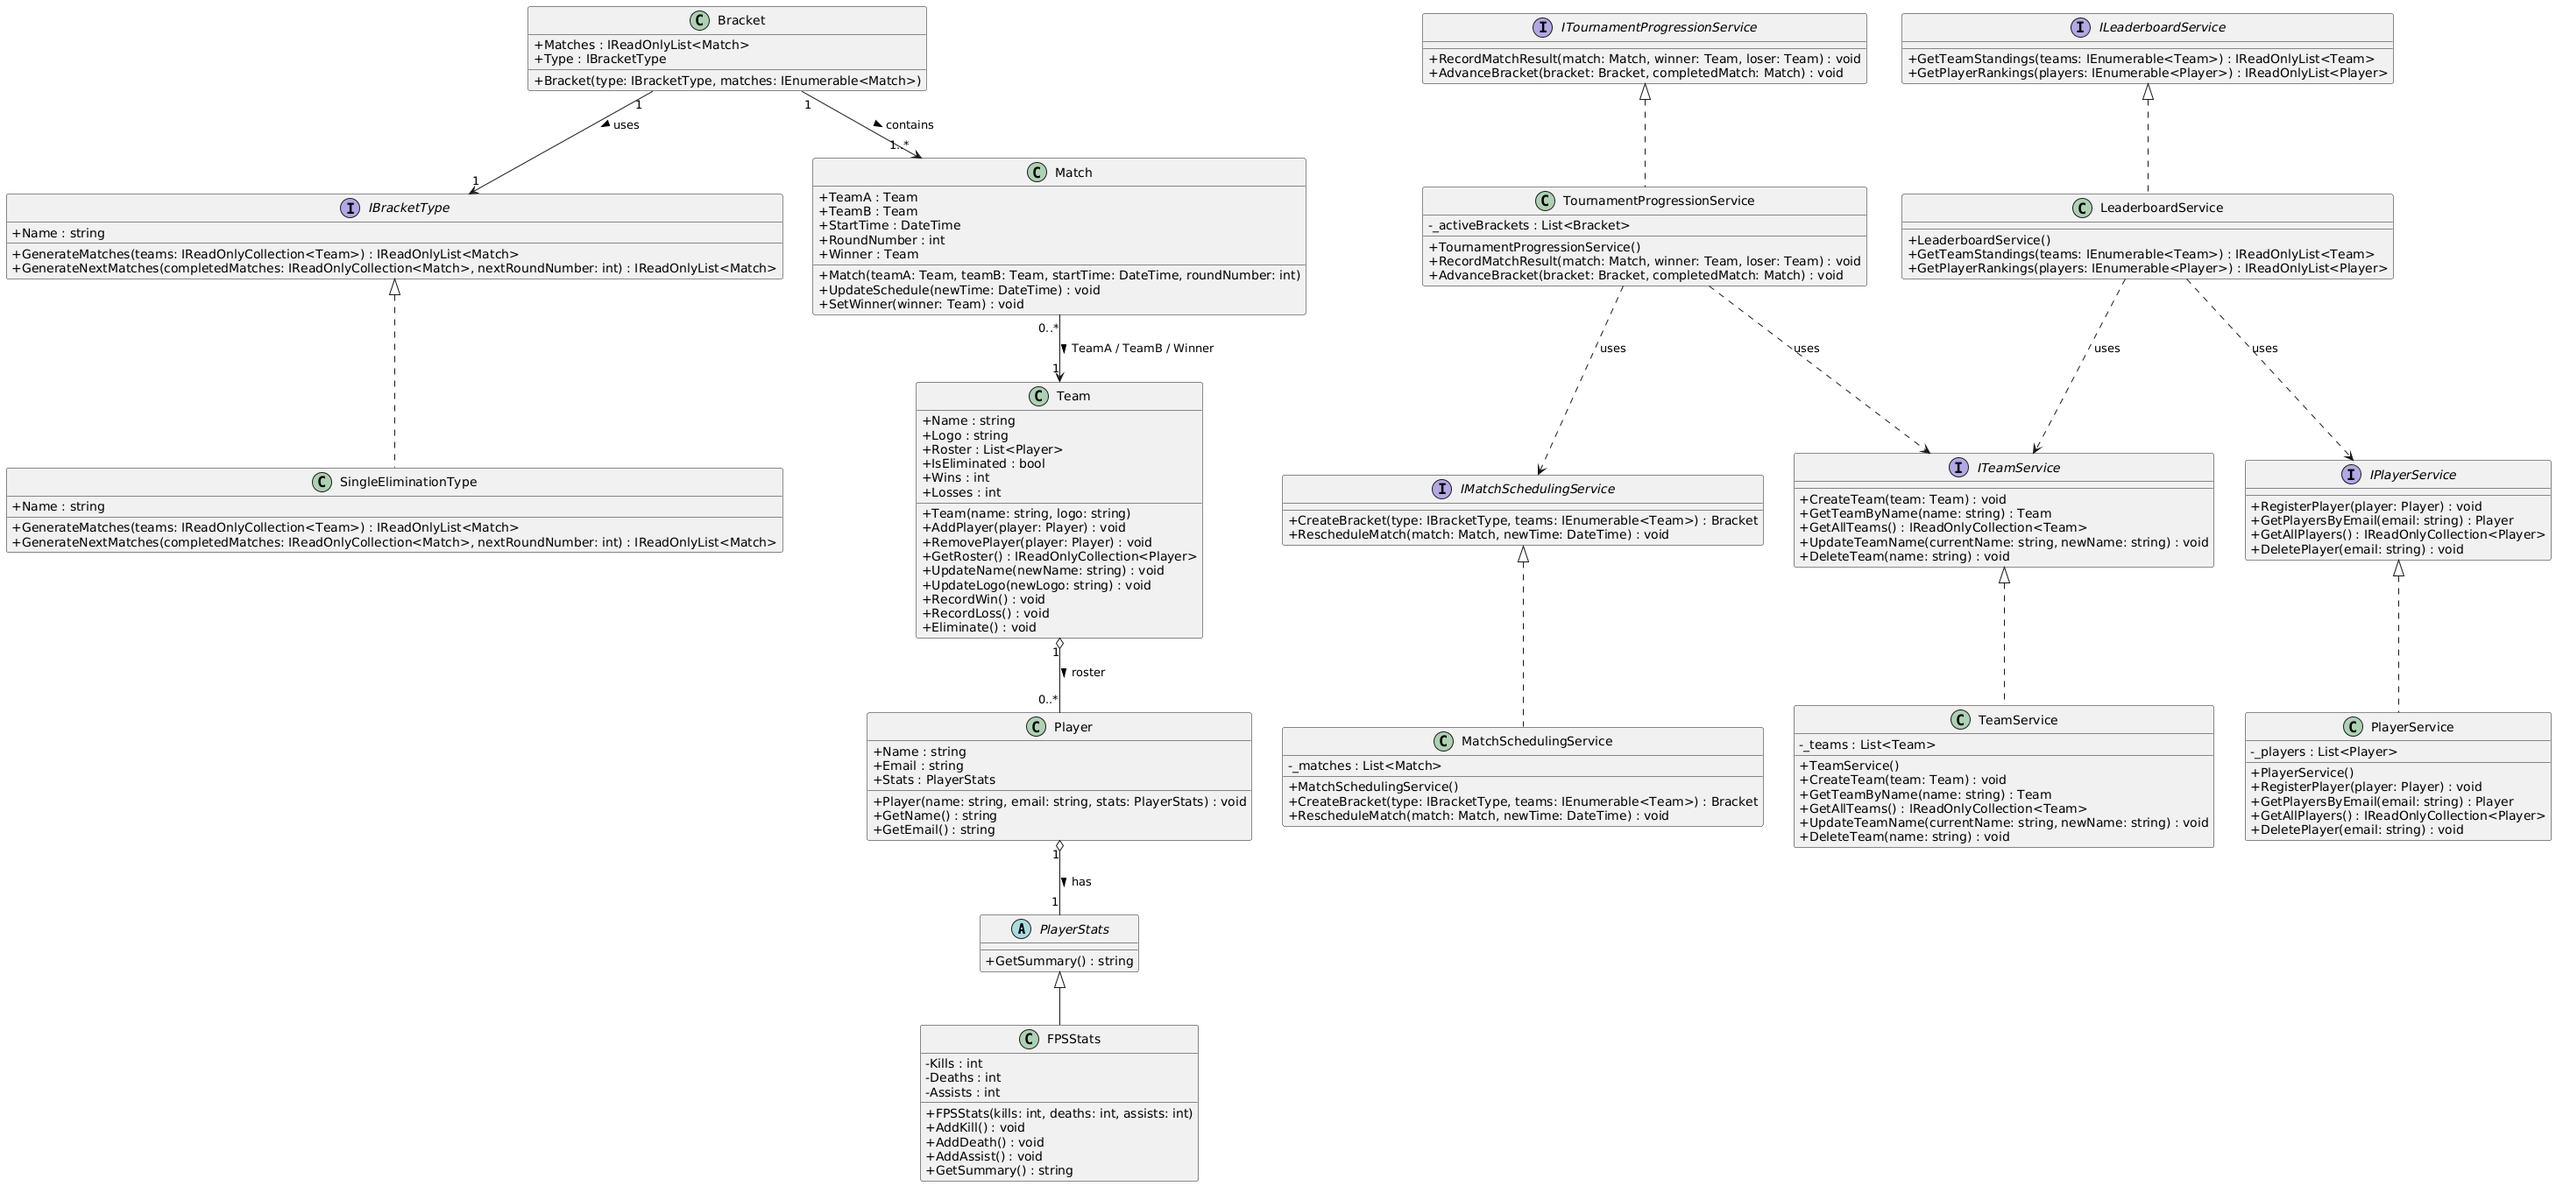
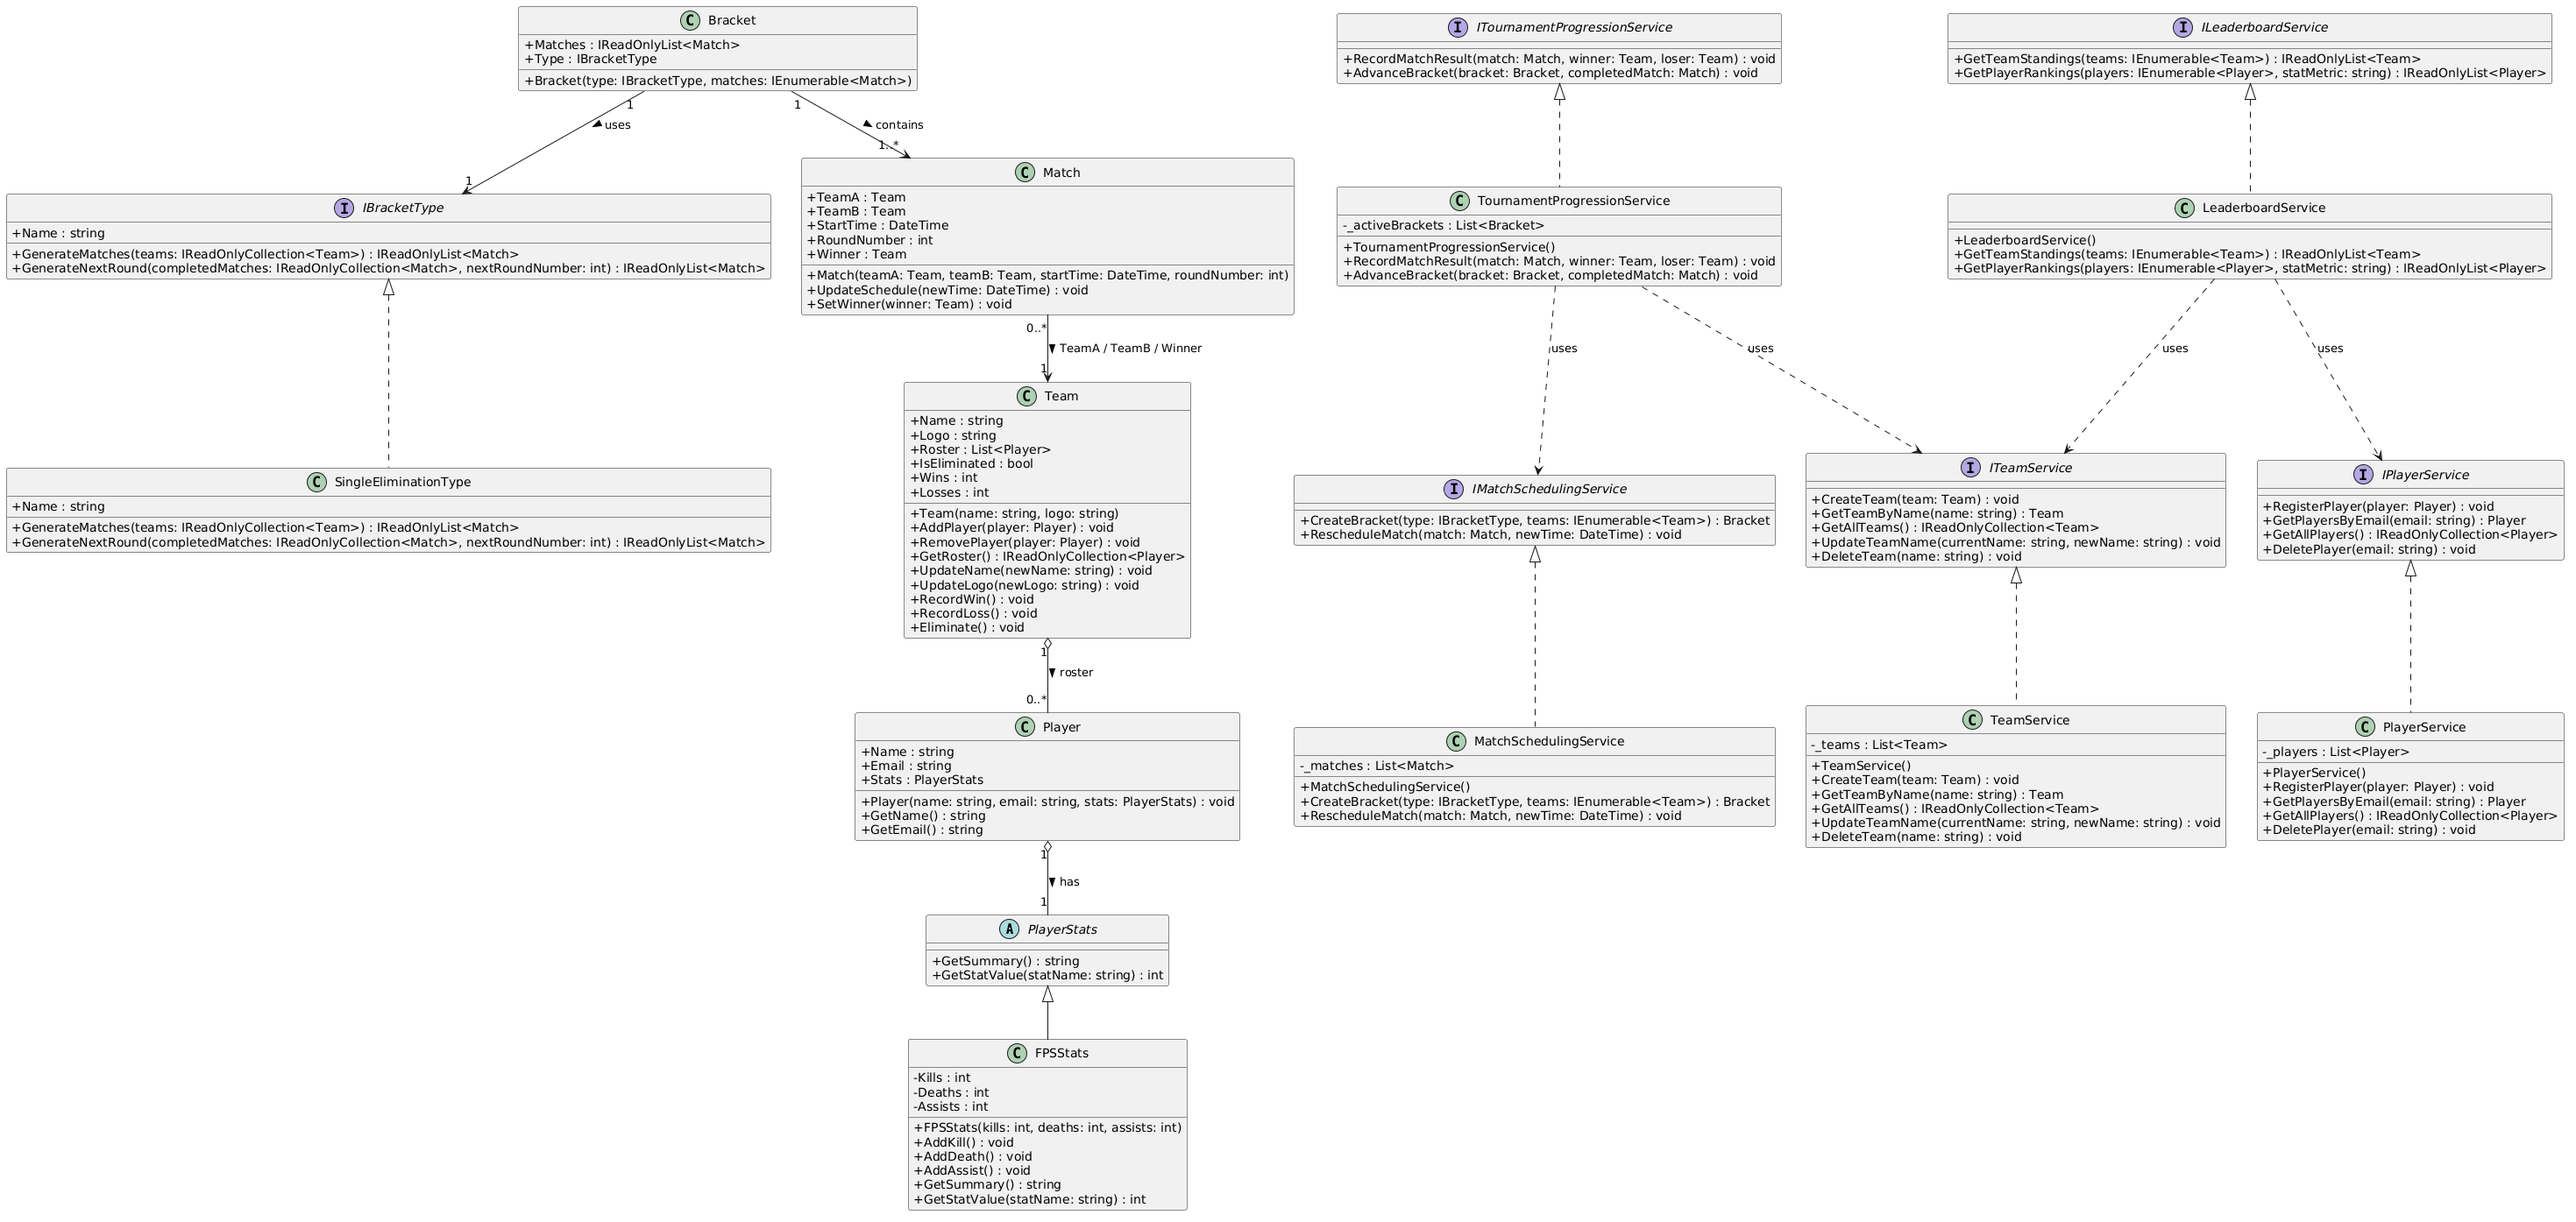
Implement and demonstrate Memo 2 use cases

diff --git a/Game-Bracket/Program.cs b/Game-Bracket/Program.cs
@@ -14,7 +14,12 @@ class Program
         ITeamService teamService = new TeamService();
         IPlayerService playerService = new PlayerService();
 
-        Console.WriteLine("TOURNAMENT MANAGEMENT SYSTEM\n");
+        // --- MEMO 2 SERVICES ---
+        IMatchSchedulingService matchSchedulingService = new MatchSchedulingService();
+        ITournamentProgressionService progressionService = new TournamentProgressionService();
+        ILeaderboardService leaderboardService = new LeaderboardService();
+
+        Console.WriteLine("TOURNAMENT MANAGEMENT SYSTEM - MEMO 1 & 2 DEMO\n");
 
         Console.WriteLine("[CREATE]");
         Team team1 = new Team("Red Birds", "red_birds.png");
@@ -29,8 +34,13 @@ class Program
         PlayerStats stats1 = new FPSStats(15, 5, 10);
         Player player1 = new Player("Alice", "alice@redbirds.com", stats1);
 
+        PlayerStats stats2 = new FPSStats(22, 3, 8);
+        Player player2 = new Player("Bob", "bob@bluebirds.com", stats2);
+
         playerService.CreatePlayer(player1);
+        playerService.CreatePlayer(player2);
         team1.AddPlayer(player1);
+        team2.AddPlayer(player2);
 
         Player retrievedPlayer = playerService.GetPlayerByEmail("alice@redbirds.com");
         Console.WriteLine($"Created and registered player {retrievedPlayer.GetName()} ({retrievedPlayer.GetEmail()})");
@@ -59,28 +69,56 @@ class Program
         Team updatedTeam = teamService.GetTeamByName("Angry Birds");
         Console.WriteLine($"After Update: Team name is {updatedTeam.Name}\n");
 
-        // Demonstrate bracket generation and match workflow
-        Console.WriteLine("[BRACKET & MATCH GENERATION]");
+        // --- MEMO 2: MATCH SCHEDULING SERVICE DEMO ---
+        Console.WriteLine("[MEMO 2 - MATCH SCHEDULING SERVICE]");
         Team team3 = new Team("Green Pigs", "green_pigs.png");
         Team team4 = new Team("King Pig", "king_pig.png");
         teamService.CreateTeam(team3);
         teamService.CreateTeam(team4);
 
         IBracketType bracketType = new SingleEliminationType("Single Elimination");
-        var matches = bracketType.GenerateMatches(teamService.GetAllTeams());
-        Bracket tournamentBracket = new Bracket(bracketType, matches);
 
+        // Using MatchSchedulingService instead of direct instantiation
+        Bracket tournamentBracket = matchSchedulingService.CreateBracket(bracketType, teamService.GetAllTeams());
         Console.WriteLine(
-            $"Generated {tournamentBracket.Matches.Count} match(es) for bracket type: {tournamentBracket.Type.Name}");
-        foreach (var match in tournamentBracket.Matches)
-        {
-            Console.WriteLine(
-                $"Match: {match.TeamA.Name} vs {match.TeamB.Name} (Round {match.RoundNumber}) at {match.StartTime}");
+            $"MatchSchedulingService created a bracket with {tournamentBracket.Matches.Count} match(es).");
 
-            // Simulate setting a winner
-            match.SetWinner(match.TeamA);
-            Console.WriteLine($"Winner decided: {match.Winner.Name}\n");
+        // Demonstrate rescheduling a match via MatchSchedulingService
+        var sampleMatch = tournamentBracket.Matches.First();
+        var rescheduledTime = DateTime.Now.AddDays(1);
+        matchSchedulingService.RescheduleMatch(sampleMatch, rescheduledTime);
+        Console.WriteLine($"Rescheduled match start time to: {sampleMatch.StartTime}\n");
+
+        // --- MEMO 2: TOURNAMENT PROGRESSION SERVICE DEMO ---
+        Console.WriteLine("[MEMO 2 - TOURNAMENT PROGRESSION SERVICE]");
+        Console.WriteLine($"Simulating match result between {sampleMatch.TeamA.Name} and {sampleMatch.TeamB.Name}...");
+
+        // Record result using TournamentProgressionService
+        progressionService.RecordMatchResult(sampleMatch, sampleMatch.TeamA, sampleMatch.TeamB);
+        Console.WriteLine($"Winner recorded: {sampleMatch.Winner.Name}");
+
+        // Check loser elimination status
+        Team loser = ReferenceEquals(sampleMatch.TeamA, sampleMatch.Winner) ? sampleMatch.TeamB : sampleMatch.TeamA;
+        Console.WriteLine($"Loser ({loser.Name}) elimination status: {loser.IsEliminated}\n");
+
+        // --- MEMO 2: LEADERBOARD SERVICE DEMO ---
+        Console.WriteLine("[MEMO 2 - LEADERBOARD SERVICE]");
+
+        var teamStandings = leaderboardService.GetTeamStandings(teamService.GetAllTeams());
+        Console.WriteLine("Team Standings:");
+        foreach (var t in teamStandings)
+        {
+            Console.WriteLine($" - {t.Name} | Wins: {t.Wins} | Eliminated: {t.IsEliminated}");
         }
+
+        var playerRankings = leaderboardService.GetPlayerRankings(new[] { player1, player2 }, "Kills");
+        Console.WriteLine("\nPlayer Rankings (Sorted by Kills):");
+        foreach (var p in playerRankings)
+        {
+            Console.WriteLine($" - {p.GetName()} | Kills: {p.Stats.GetStatValue("Kills")}");
+        }
+
+        Console.WriteLine();
 
         // Delete one object and display the remaining collection.
         Console.WriteLine("[DELETE]");
@@ -99,11 +137,9 @@ class Program
 
         // Domain-Object Operation
         Console.WriteLine("[REJECTED DOMAIN-OBJECT OPERATION] - Scheduling a match with eliminated team");
-        Console.WriteLine("Scheduling a match with an eliminated team...");
         Team team5 = new Team("Sad Pigs", "sad_pigs.png");
         teamService.CreateTeam(team5);
 
-        // Eliminate sad pigs
         team5.Eliminate();
         Console.WriteLine($"Team {team5.Name} has been eliminated.");
 

diff --git a/Game-Bracket/Service/TournamentProgressionService.cs b/Game-Bracket/Service/TournamentProgressionService.cs
@@ -1,0 +1,64 @@
+using System;
+using System.Collections.Generic;
+using Game_Bracket.Contracts;
+using Game_Bracket.Domain;
+
+namespace Game_Bracket.Service;
+
+public class TournamentProgressionService : ITournamentProgressionService
+{
+    public void RecordMatchResult(Match match, Team winner, Team loser)
+    {
+        if (match == null)
+        {
+            throw new ArgumentNullException(nameof(match));
+        }
+
+        if (winner == null)
+        {
+            throw new ArgumentNullException(nameof(winner));
+        }
+
+        if (loser == null)
+        {
+            throw new ArgumentNullException(nameof(loser));
+        }
+
+        // Match.SetWinner validates that the winner is part of the match
+        match.SetWinner(winner);
+
+        // Validate that the loser is the other competing team
+        if (!ReferenceEquals(loser, match.TeamA) && !ReferenceEquals(loser, match.TeamB))
+        {
+            throw new ArgumentException("Loser must be one of the competing teams.");
+        }
+
+        // Trigger team elimination for the loser
+        if (!loser.IsEliminated)
+        {
+            loser.Eliminate();
+        }
+    }
+
+    public void AdvanceBracket(Bracket bracket, Match completedMatch)
+    {
+        if (bracket == null)
+        {
+            throw new ArgumentNullException(nameof(bracket));
+        }
+
+        if (completedMatch == null)
+        {
+            throw new ArgumentNullException(nameof(completedMatch));
+        }
+
+        if (completedMatch.Winner == null)
+        {
+            throw new InvalidOperationException("Cannot advance bracket using an uncompleted match.");
+        }
+
+        // Generate the next round matches using the bracket type strategy
+        var nextRoundNumber = completedMatch.RoundNumber + 1;
+        var nextRoundMatches = bracket.Type.GenerateNextRound(bracket.Matches, nextRoundNumber);
+    }
+}

diff --git a/Game-Bracket/Contracts/ILeaderboardService.cs b/Game-Bracket/Contracts/ILeaderboardService.cs
@@ -37,30 +37,34 @@ public interface ILeaderboardService
     IReadOnlyList<Team> GetTeamStandings(IEnumerable<Team> teams);
 
     /// <summary>
-    /// Retrieves the rankings for the specified players.
+    /// Retrieves the rankings for the specified players based on a given metric.
     /// </summary>
     /// <param name="players">
     /// The collection of players. Must not be null.
     /// </param>
+    /// <param name="statMetric">
+    /// The statistical metric used to sort and rank the players (e.g., "Kills"). Must not be null or empty.
+    /// </param>
     /// <returns>
-    /// A read-only list of ranked players sorted by performance.
+    /// A read-only list of ranked players sorted by the specified statistic.
     /// </returns>
     /// <remarks>
     /// Preconditions:
     /// - players must not be null.
+    /// - statMetric must not be null or empty.
     /// 
     /// Postconditions:
-    /// - Returns a sorted, read-only collection of players ordered by underlying statistics.
+    /// - Returns a sorted, read-only collection of players ordered by the requested statistic.
     /// - This operation does not modify player records.
     /// 
     /// Expected failures:
-    /// - System.ArgumentNullException when players is null.
+    /// - System.ArgumentNullException when players or statMetric is null.
     /// 
     /// Side Effects:
     /// - None (pure query operation).
     /// </remarks>
     /// <exception cref="System.ArgumentNullException">
-    /// Thrown when players is null.
+    /// Thrown when players or statMetric is null.
     /// </exception>
-    IReadOnlyList<Player> GetPlayerRankings(IEnumerable<Player> players);
+    IReadOnlyList<Player> GetPlayerRankings(IEnumerable<Player> players, string statMetric);
 }

diff --git a/Game-Bracket/Service/MatchSchedulingService.cs b/Game-Bracket/Service/MatchSchedulingService.cs
@@ -1,0 +1,48 @@
+using System;
+using System.Collections.Generic;
+using Game_Bracket.Contracts;
+using Game_Bracket.Domain;
+
+namespace Game_Bracket.Service;
+
+public class MatchSchedulingService : IMatchSchedulingService
+{
+    private readonly List<Bracket> _brackets = new();
+    
+    public IReadOnlyCollection<Bracket> Brackets => _brackets.AsReadOnly();
+    
+    public Bracket CreateBracket(IBracketType bracketType, IEnumerable<Team> teams)
+    {
+        if (bracketType == null)
+        {
+            throw new ArgumentNullException(nameof(bracketType));
+        }
+        
+        if (teams == null)
+        {
+            throw new ArgumentNullException(nameof(teams));
+        }
+
+        // Convert the input team enumerable into a list for processing
+        var teamList = new List<Team>(teams);
+
+        // Generate the opening round matches using the provided bracket type strategy
+        var initialMatches = bracketType.GenerateMatches(teamList);
+        
+        var bracket = new Bracket(bracketType, initialMatches);
+        _brackets.Add(bracket);
+
+        return bracket;
+    }
+    
+    public void RescheduleMatch(Match match, DateTime newTime)
+    {
+        if (match == null)
+        {
+            throw new ArgumentNullException(nameof(match));
+        }
+
+        // Delegate the time update to the match domain model
+        match.UpdateSchedule(newTime);
+    }
+}

diff --git a/Game-Bracket/Service/LeaderboardService.cs b/Game-Bracket/Service/LeaderboardService.cs
@@ -1,0 +1,44 @@
+using System;
+using System.Collections.Generic;
+using System.Linq;
+using Game_Bracket.Contracts;
+using Game_Bracket.Domain;
+
+namespace Game_Bracket.Service;
+
+public class LeaderboardService : ILeaderboardService
+{
+    public IReadOnlyList<Team> GetTeamStandings(IEnumerable<Team> teams)
+    {
+        if (teams == null)
+        {
+            throw new ArgumentNullException(nameof(teams));
+        }
+
+        // Sort teams by wins descending, then active status
+        return teams
+            .OrderByDescending(t => t.Wins)
+            .ThenBy(t => t.IsEliminated)
+            .ToList()
+            .AsReadOnly();
+    }
+
+    public IReadOnlyList<Player> GetPlayerRankings(IEnumerable<Player> players, string statMetric)
+    {
+        if (players == null)
+        {
+            throw new ArgumentNullException(nameof(players));
+        }
+
+        if (statMetric == null)
+        {
+            throw new ArgumentNullException(nameof(statMetric));
+        }
+
+        // Dynamically query the requested stat metric polymorphically via PlayerStats
+        return players
+            .OrderByDescending(p => p.Stats?.GetStatValue(statMetric) ?? 0)
+            .ToList()
+            .AsReadOnly();
+    }
+}

diff --git a/Game-Bracket/Domain/FPSStats.cs b/Game-Bracket/Domain/FPSStats.cs
@@ -34,6 +34,18 @@ public class FPSStats : PlayerStats
     {
         Assists++;
     }
+    
+    // Dynamic lookup for any stat name
+    public override int GetStatValue(string statName)
+    {
+        return statName?.ToLowerInvariant() switch
+        {
+            "kills" => Kills,
+            "deaths" => Deaths,
+            "assists" => Assists,
+            _ => 0 // Fallback if an unknown stat is requested
+        };
+    }
 
     public override string GetSummary()
     {

diff --git a/Game-Bracket/Domain/PlayerStats.cs b/Game-Bracket/Domain/PlayerStats.cs
@@ -2,5 +2,7 @@ namespace Game_Bracket.Domain;
 
 public abstract class PlayerStats
 {
+    public abstract int GetStatValue(string statName); 
+    
     public abstract string GetSummary();
 }
